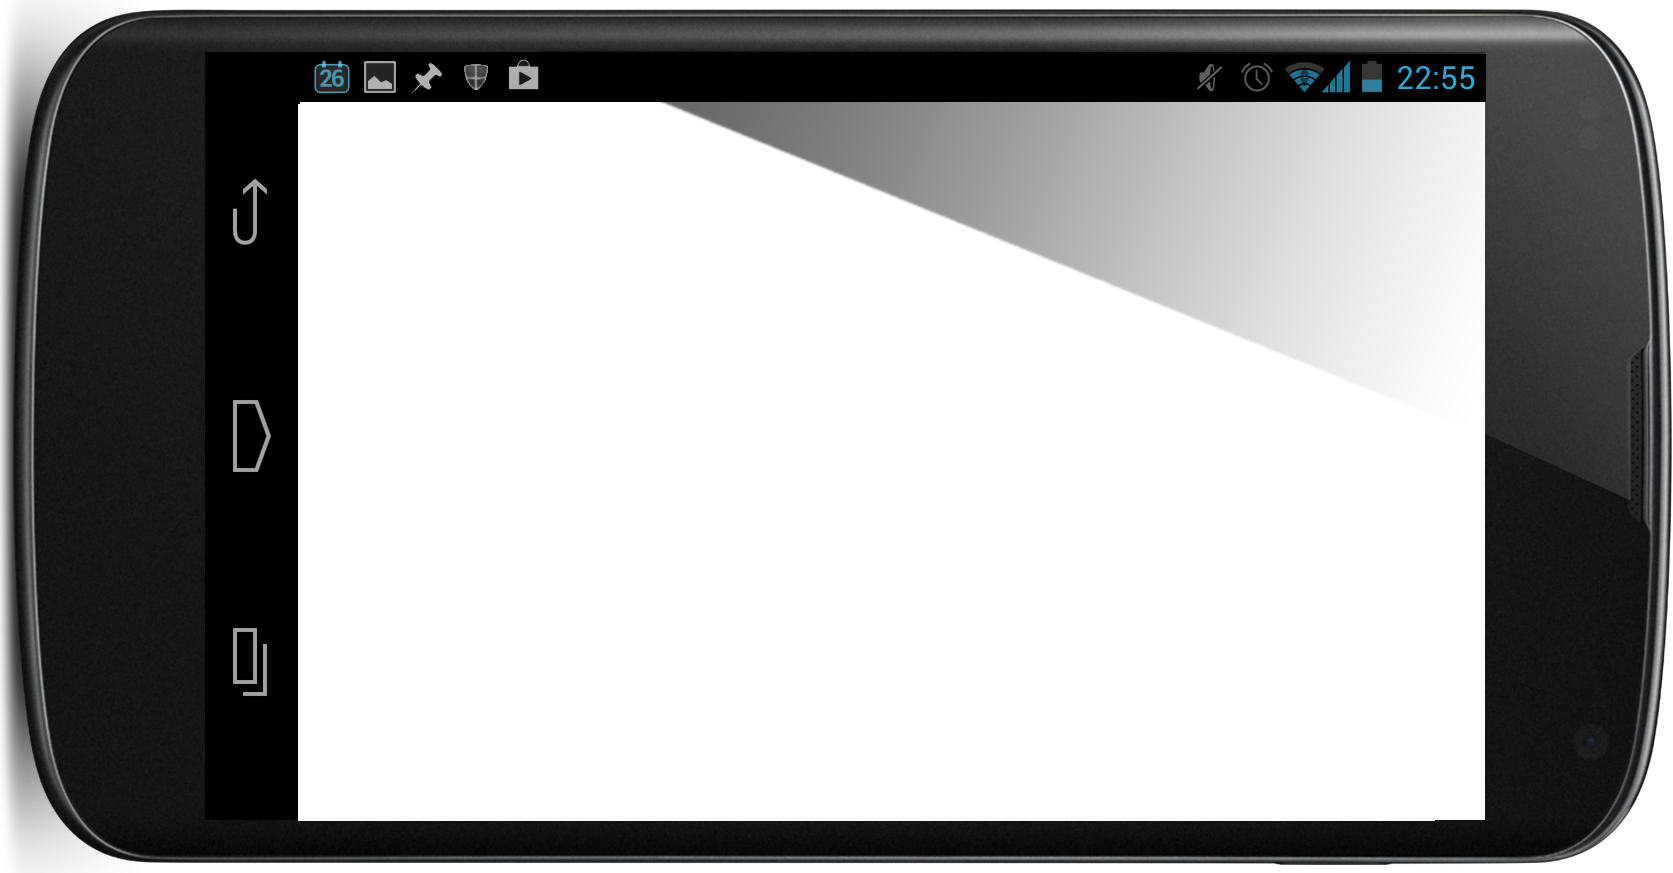
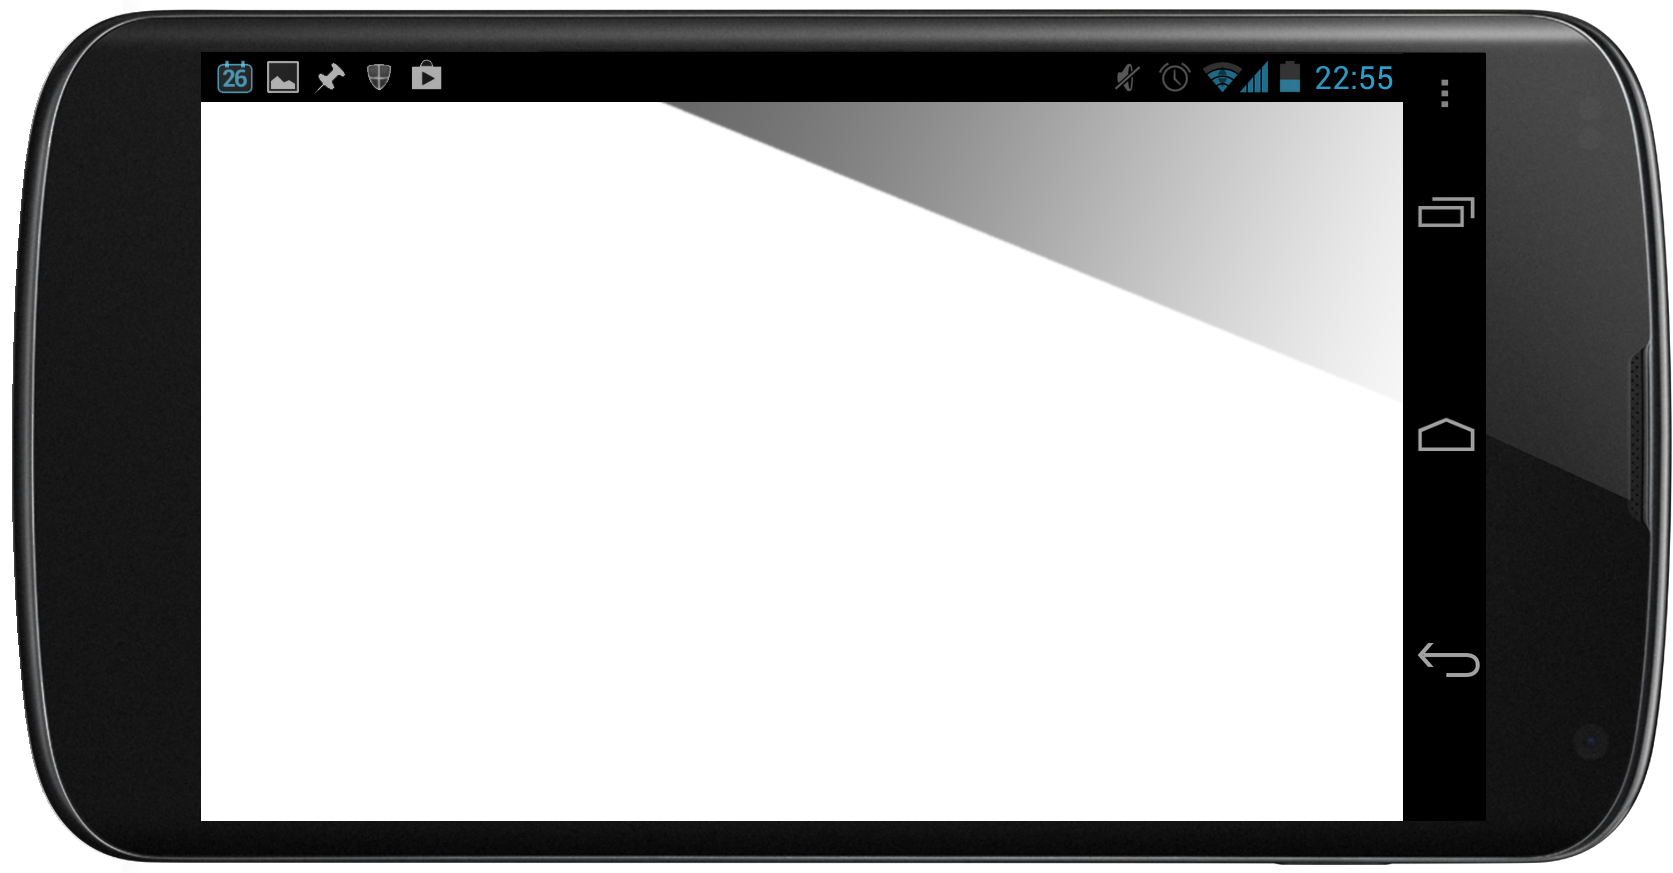
MOBI-406 Client Viewport Simulator for Desktop

Changed region(s): [[0.0932, 0.0619, 0.3419, 0.9588], [0.6527, 0.0619, 0.9014, 0.9588], [0.0, 0.0309, 0.0622, 0.9897]]

diff --git a/icemobile/trunk/icemobile/samples/jsf/mobileshowcase/src/main/webapp/resources/css/device-simulator.css b/icemobile/trunk/icemobile/samples/jsf/mobileshowcase/src/main/webapp/resources/css/device-simulator.css
@@ -363,14 +363,17 @@ iframe {
 .nexus4-portrait {
     background-image: url(css-images/nexus4-portrait.png);
     padding: 100px 0 117px 0px;
-    background-size: 440px 843px;
+    background-size: 440px auto;
     opacity: 0;
 }
 #nexus4-portrait-device.active .nexus4-portrait{ 
     opacity: 1;
 }
 .nexus4-portrait .device{
-    width: 384px; height: 571px; padding-top: 20px;padding-bottom: 44px;
+    width: 384px; 
+    height: 572px; 
+    padding-top: 20px;
+    padding-bottom: 44px;
 }
 #nexus4-portrait{ width: 400px }
 .mac #nexus4-portrait{ width: 384px }
@@ -378,19 +381,18 @@ iframe {
 /* NEXUS 4 LANDSCAPE */
 .nexus4-landscape {
     background-image: url(css-images/nexus4-landscape.png);
-    padding: 55px 0 117px 0px;
-    background-size: 904px auto;
+    padding: 54px 36px 101px 0px;
+    background-size: 887px auto;
     opacity: 0;
 }
 #nexus4-landscape-device.active .nexus4-landscape{ 
     opacity: 1;
 }
 .nexus4-landscape .device{
-    width: 640px;
-    height: 386px;
+    width: 639px;
+    height: 379px;
     padding-top: 0px;
     padding-bottom: 44px;
-    padding-left: 59px;
 }
 #nexus4-landscape{ width: 656px }
 .mac #nexus4-landscape{ width: 640px }
@@ -499,10 +501,16 @@ iframe {
     display: block;
     line-height: 25px;
     font-weight: bold;
-    margin-left: 25px;
-    top: 10px;
+    margin-left: 6px;
+    min-width: 200px;
+    top: 0px;
     position: absolute;
+    padding: 20px;
+    background-color: #FFF;
+    border-radius: 10px;
     opacity: 0;
+    height: 100px;
+    z-index: 100;
 }
 .device-type .orientation{
     font-size: 26px;
@@ -511,7 +519,7 @@ iframe {
     margin-left: -1px;
 }
 #slides .active .device-type{
-    opacity: 1;
+    opacity: 0.8;
 }
 
 /*
@@ -562,7 +570,7 @@ iframe {
 }
 #scale{
     position: absolute;
-    top: 180px;
+    top: 190px;
     left: 15px;
     color: #005499;
     z-index: 999;

diff --git a/icemobile/trunk/icemobile/samples/jsf/mobileshowcase/src/main/webapp/device-simulator.html b/icemobile/trunk/icemobile/samples/jsf/mobileshowcase/src/main/webapp/device-simulator.html
@@ -377,7 +377,7 @@
                     openNexus7();
                 }
                 else if( sel.id === 'bbz10Radio'){
-                    openBBZ10Portrait();
+                    openBBZ10();
                 }
                 break;
             }
